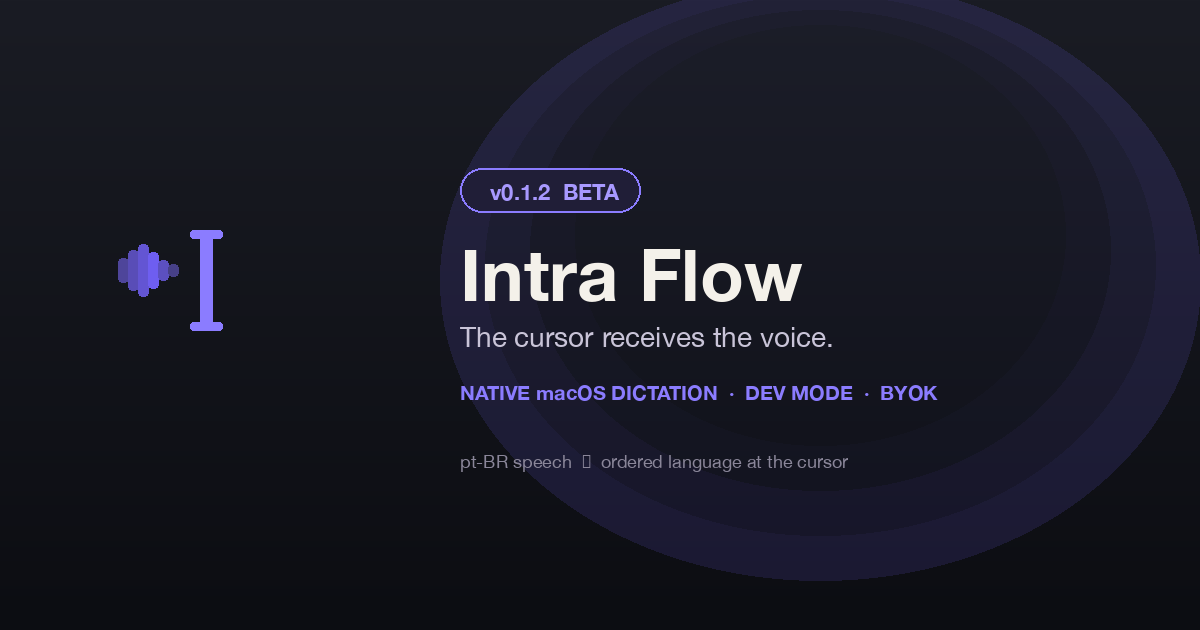
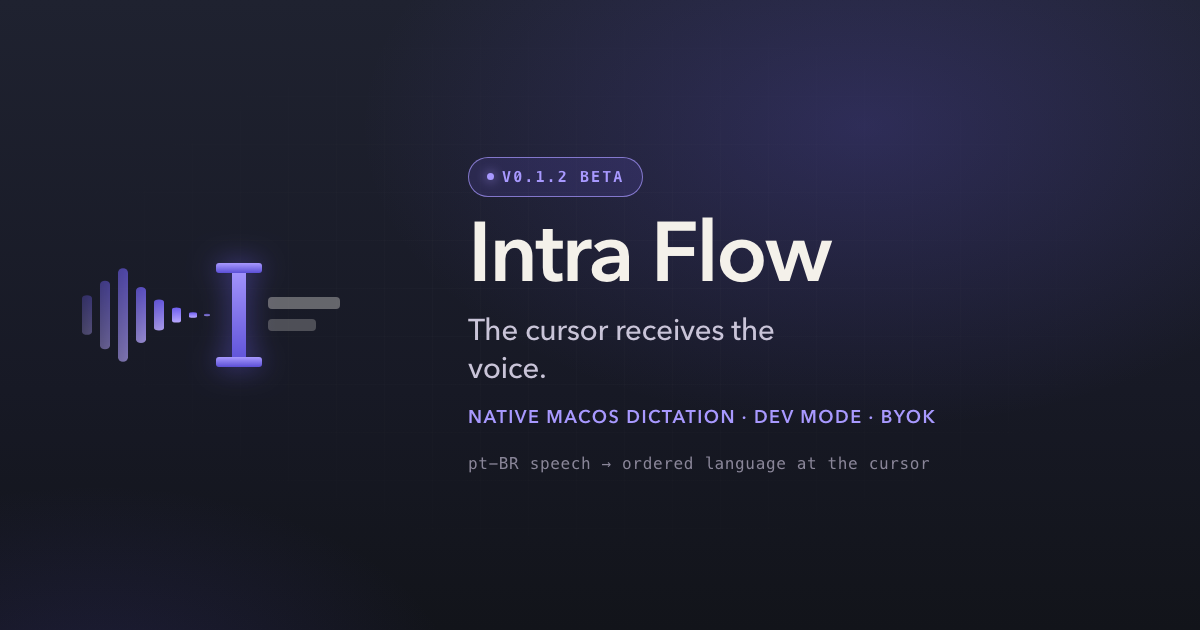
media: rebuild v0.1.2 OG from HTML/CSS/JS + Chrome raster
Brand-first card (cursor receives the voice); render-og.sh for export.

diff --git a/docs/brand/og-release-v0.1.2.html b/docs/brand/og-release-v0.1.2.html
@@ -1,0 +1,235 @@
+<!DOCTYPE html>
+<html lang="en">
+<head>
+  <meta charset="utf-8" />
+  <meta name="viewport" content="width=1200" />
+  <title>Intra Flow — OG v0.1.2</title>
+  <style>
+    :root {
+      --graphite: #12141a;
+      --graphite-2: #1a1c24;
+      --paper: #f4f1ea;
+      --muted: #c9c4d8;
+      --dim: #8a8699;
+      --signal: #6e5ef0;
+      --signal-hot: #a899ff;
+      --signal-deep: #5b4fd6;
+      --sans: "Avenir Next", "SF Pro Display", "Helvetica Neue", Helvetica, Arial, sans-serif;
+      --mono: "SF Mono", ui-monospace, Menlo, monospace;
+    }
+
+    * { box-sizing: border-box; margin: 0; padding: 0; }
+
+    html, body {
+      width: 1200px;
+      height: 630px;
+      overflow: hidden;
+      background: var(--graphite);
+      font-family: var(--sans);
+      -webkit-font-smoothing: antialiased;
+    }
+
+    .og {
+      position: relative;
+      width: 1200px;
+      height: 630px;
+      background:
+        radial-gradient(70% 80% at 72% 20%, color-mix(in oklab, var(--signal) 22%, transparent), transparent 60%),
+        radial-gradient(55% 60% at 8% 110%, color-mix(in oklab, var(--signal-deep) 16%, transparent), transparent 55%),
+        linear-gradient(180deg, #1f2230 0%, #171925 62%, var(--graphite) 100%);
+      color: var(--paper);
+      overflow: hidden;
+    }
+
+    .og::before {
+      content: "";
+      position: absolute;
+      inset: 0;
+      opacity: 0.45;
+      pointer-events: none;
+      background-image:
+        linear-gradient(color-mix(in oklab, var(--paper) 3.5%, transparent) 1px, transparent 1px),
+        linear-gradient(90deg, color-mix(in oklab, var(--paper) 3.5%, transparent) 1px, transparent 1px);
+      background-size: 48px 48px;
+      mask-image: radial-gradient(70% 70% at 50% 45%, #000 20%, transparent 75%);
+      -webkit-mask-image: radial-gradient(70% 70% at 50% 45%, #000 20%, transparent 75%);
+    }
+
+    .stage {
+      position: relative;
+      z-index: 1;
+      display: grid;
+      grid-template-columns: 380px 1fr;
+      align-items: center;
+      height: 100%;
+      padding: 0 72px 0 64px;
+      gap: 24px;
+    }
+
+    .mark {
+      width: 320px;
+      height: 160px;
+      display: grid;
+      place-items: center;
+    }
+
+    .mark svg { width: 100%; height: auto; overflow: visible; }
+
+    .copy { display: flex; flex-direction: column; gap: 18px; min-width: 0; }
+
+    .pill {
+      align-self: flex-start;
+      display: inline-flex;
+      align-items: center;
+      gap: 8px;
+      padding: 10px 18px;
+      border-radius: 999px;
+      border: 1.5px solid color-mix(in oklab, var(--signal-hot) 70%, transparent);
+      background: color-mix(in oklab, var(--signal) 14%, transparent);
+      color: var(--signal-hot);
+      font-family: var(--mono);
+      font-size: 15px;
+      font-weight: 600;
+      letter-spacing: 0.14em;
+      text-transform: uppercase;
+    }
+
+    .pill .dot {
+      width: 7px;
+      height: 7px;
+      border-radius: 50%;
+      background: var(--signal-hot);
+      box-shadow: 0 0 12px var(--signal-hot);
+    }
+
+    h1 {
+      font-size: 84px;
+      font-weight: 600;
+      letter-spacing: -0.03em;
+      line-height: 0.95;
+      color: var(--paper);
+    }
+
+    .lede {
+      font-size: 30px;
+      font-weight: 450;
+      color: var(--muted);
+      letter-spacing: -0.015em;
+      line-height: 1.25;
+      max-width: 18ch;
+    }
+
+    .meta {
+      font-size: 18px;
+      font-weight: 560;
+      color: var(--signal-hot);
+      letter-spacing: 0.08em;
+      text-transform: uppercase;
+    }
+
+    .foot {
+      margin-top: 6px;
+      font-family: var(--mono);
+      font-size: 16px;
+      color: var(--dim);
+      letter-spacing: 0.04em;
+    }
+
+    .wbar {
+      transform-box: fill-box;
+      transform-origin: center;
+      animation: barLive var(--dur, 1.2s) ease-in-out infinite;
+      animation-delay: var(--d, 0s);
+    }
+
+    @keyframes barLive {
+      0%, 100% { transform: scaleY(var(--lo, 0.45)); }
+      50% { transform: scaleY(var(--hi, 1)); }
+    }
+
+    .ibeam {
+      filter: drop-shadow(0 0 14px color-mix(in oklab, var(--signal) 55%, transparent));
+    }
+
+    /* Freeze motion when capturing a still */
+    body.still .wbar { animation: none; transform: scaleY(var(--still, 0.72)); }
+  </style>
+</head>
+<body>
+  <article class="og" id="og" aria-label="Intra Flow Open Graph card">
+    <div class="stage">
+      <div class="mark" aria-hidden="true">
+        <svg viewBox="0 0 320 160" xmlns="http://www.w3.org/2000/svg">
+          <defs>
+            <linearGradient id="barGrad" x1="0" y1="0" x2="0" y2="1">
+              <stop offset="0" stop-color="#6e5ef0"/>
+              <stop offset="1" stop-color="#b8a8ff"/>
+            </linearGradient>
+            <linearGradient id="sigGrad" x1="0" y1="0" x2="0" y2="1">
+              <stop offset="0" stop-color="#a899ff"/>
+              <stop offset="1" stop-color="#5b4fd6"/>
+            </linearGradient>
+            <linearGradient id="wfFade" x1="0" y1="0" x2="1" y2="0">
+              <stop offset="0" stop-color="white" stop-opacity="0.15"/>
+              <stop offset="0.35" stop-color="white" stop-opacity="1"/>
+              <stop offset="1" stop-color="white" stop-opacity="1"/>
+            </linearGradient>
+            <mask id="funnel">
+              <rect width="320" height="160" fill="url(#wfFade)"/>
+            </mask>
+          </defs>
+
+          <!-- Waveform funneling into the I-beam -->
+          <g mask="url(#funnel)">
+            <!-- bars: taller left → taper toward cursor -->
+            <rect class="wbar" x="18"  y="48" width="10" height="64" rx="5" fill="url(#barGrad)" style="--dur:1.1s;--d:0.00s;--lo:.4;--hi:1;--still:.62"/>
+            <rect class="wbar" x="36"  y="36" width="10" height="88" rx="5" fill="url(#barGrad)" style="--dur:1.25s;--d:0.08s;--lo:.45;--hi:1;--still:.78"/>
+            <rect class="wbar" x="54"  y="28" width="10" height="104" rx="5" fill="url(#barGrad)" style="--dur:0.95s;--d:0.14s;--lo:.5;--hi:1;--still:.9"/>
+            <rect class="wbar" x="72"  y="40" width="10" height="80" rx="5" fill="url(#barGrad)" style="--dur:1.15s;--d:0.05s;--lo:.42;--hi:.95;--still:.7"/>
+            <rect class="wbar" x="90"  y="52" width="10" height="56" rx="5" fill="url(#barGrad)" style="--dur:1.3s;--d:0.18s;--lo:.38;--hi:.85;--still:.55"/>
+            <rect class="wbar" x="108" y="62" width="9"  height="36" rx="4.5" fill="url(#barGrad)" style="--dur:1.05s;--d:0.1s;--lo:.35;--hi:.7;--still:.42"/>
+            <rect class="wbar" x="125" y="70" width="8"  height="20" rx="4" fill="url(#barGrad)" style="--dur:1.2s;--d:0.22s;--lo:.3;--hi:.55;--still:.28"/>
+            <rect class="wbar" x="140" y="74" width="6"  height="12" rx="3" fill="url(#barGrad)" opacity="0.75" style="--dur:1.0s;--d:0.12s;--lo:.4;--hi:.6;--still:.2"/>
+          </g>
+
+          <!-- Living I-beam cursor -->
+          <g class="ibeam">
+            <rect x="168" y="28" width="14" height="104" rx="3" fill="url(#sigGrad)"/>
+            <rect x="152" y="28" width="46" height="10" rx="3" fill="url(#sigGrad)"/>
+            <rect x="152" y="122" width="46" height="10" rx="3" fill="url(#sigGrad)"/>
+          </g>
+
+          <!-- ghost word bars (next words forming) -->
+          <g opacity="0.35">
+            <rect x="204" y="62" width="72" height="12" rx="4" fill="#f4f1ea"/>
+            <rect x="204" y="84" width="48" height="12" rx="4" fill="#f4f1ea" opacity="0.7"/>
+          </g>
+        </svg>
+      </div>
+
+      <div class="copy">
+        <div class="pill"><span class="dot" aria-hidden="true"></span> v0.1.2 beta</div>
+        <h1>Intra Flow</h1>
+        <p class="lede">The cursor receives the voice.</p>
+        <p class="meta">Native macOS dictation · Dev Mode · BYOK</p>
+        <p class="foot">pt-BR speech → ordered language at the cursor</p>
+      </div>
+    </div>
+  </article>
+
+  <script>
+    // Capture mode: ?still=1 freezes waveform at designed heights for PNG export.
+    const params = new URLSearchParams(location.search);
+    if (params.get("still") !== "0") {
+      document.body.classList.add("still");
+    }
+
+    // Expose a tiny API for headless tooling / manual replay.
+    window.IntraFlowOG = {
+      still() { document.body.classList.add("still"); },
+      live() { document.body.classList.remove("still"); },
+      size: { width: 1200, height: 630 },
+    };
+  </script>
+</body>
+</html>

diff --git a/docs/brand/README.md b/docs/brand/README.md
@@ -3,12 +3,18 @@
 | File | Use |
 | --- | --- |
 | `readme-header.png` | GitHub README hero (1280×640) |
-| `og-image.png` | Social / Open Graph (1200×630) |
+| `og-image.png` | Current social / Open Graph card (1200×630) |
+| `og-release-v0.1.2.html` | Source for the v0.1.2 OG (HTML / CSS / JS) |
+| `og-release-v0.1.2.png` | Raster export for [v0.1.2](https://github.com/heliowap/IntraFlowApp/releases/tag/v0.1.2) |
+| `og-release-v0.1.2.svg` | Simplified vector sibling |
+| `intra-flow-demo-15s.gif` | 15s product demo (pt → EN at cursor) |
 | `icon-color-512.png` / `icon-color-256.png` | App mark raster |
 | `icon-color.svg` | App mark vector |
+| `render-og.sh` | Chrome headless: HTML → PNG |
+
+```bash
+./render-og.sh
+# Live waveform preview: open og-release-v0.1.2.html?still=0
+```
 
 Story and rules: [BRAND_STORY.md](../BRAND_STORY.md) · [BRAND.md](../BRAND.md) · [DESIGN.md](../DESIGN.md).
-| `intra-flow-demo-15s.gif` | 15s product demo (pt → EN at cursor), Instagram DM |
-| `og-release-v0.1.2.png` / `.svg` | Open Graph for [v0.1.2](https://github.com/heliowap/IntraFlowApp/releases/tag/v0.1.2) (1200×630) |
-| `og-image.png` | Current social / Open Graph card |
-